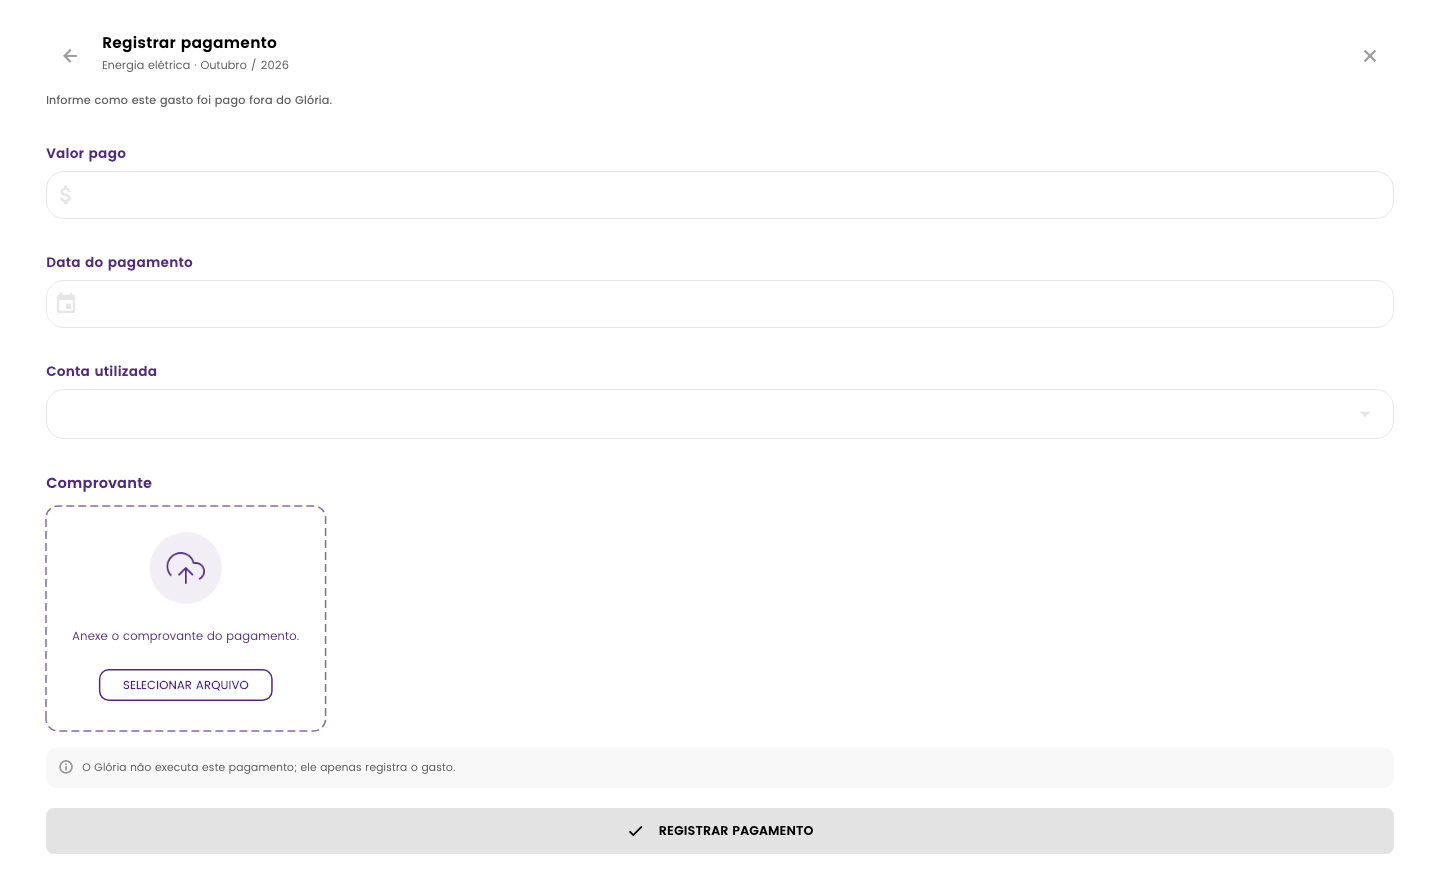
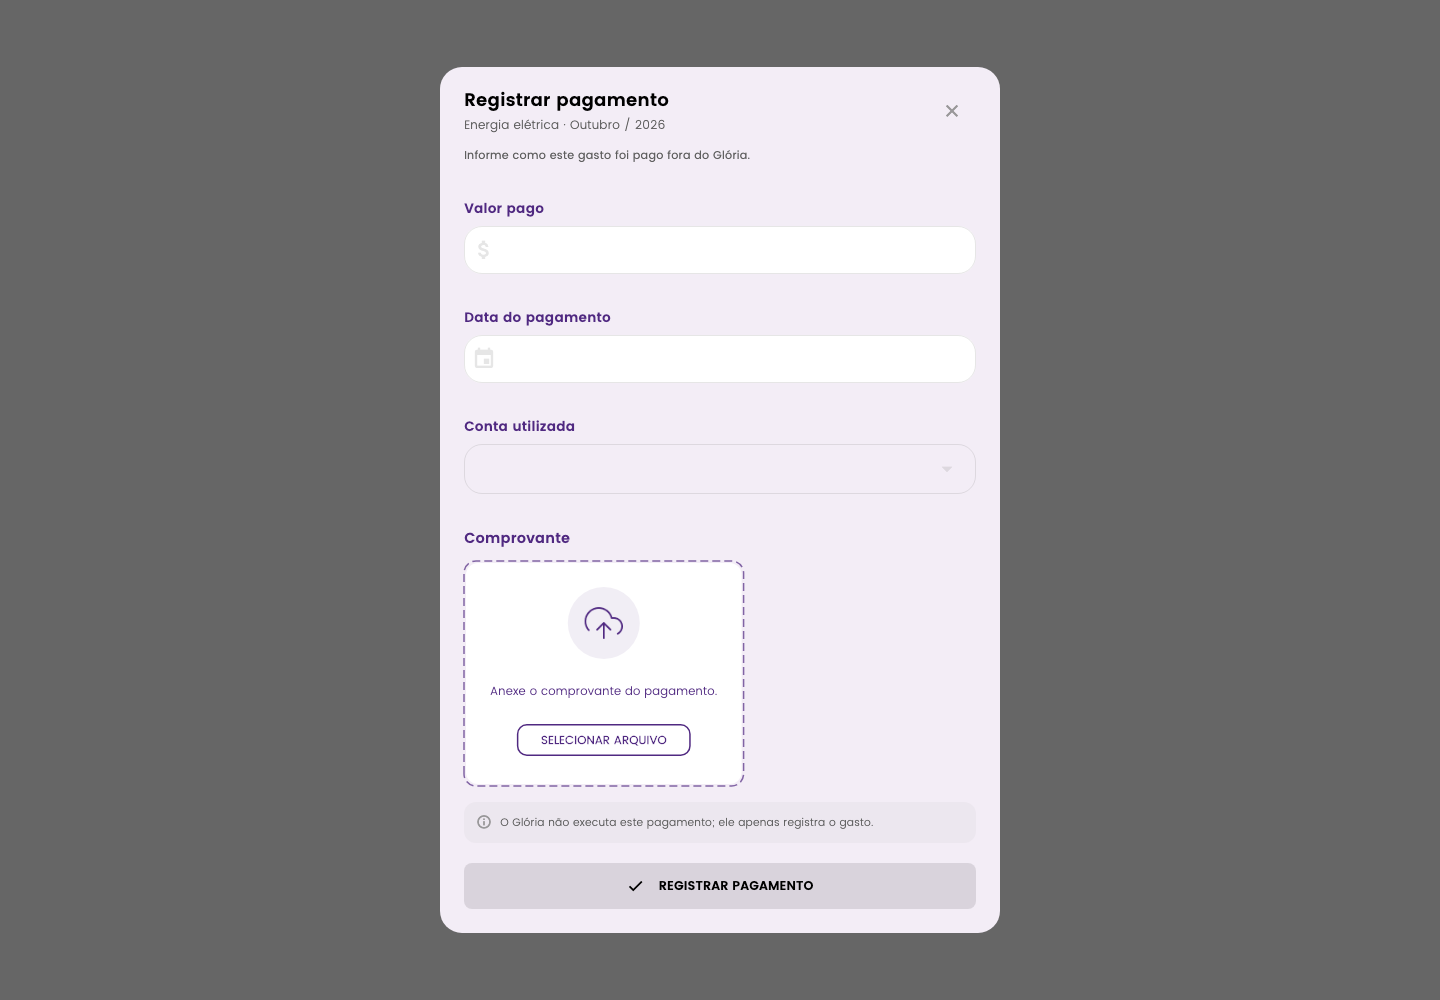
style(recurring-payments): refine execution modal surfaces

diff --git a/test/features/erp/recurring_payments/recurring_payments_execution_visual_test.dart b/test/features/erp/recurring_payments/recurring_payments_execution_visual_test.dart
@@ -703,16 +703,34 @@ Future<void> _pumpSheet(
 }) async {
   _setSurface(tester, size);
 
+  final sheet = RecurringPaymentExecutionSheet(
+    item: item,
+    hasBanking: hasBanking,
+    symbolFormatMoney: _symbol,
+    service: service,
+  );
+  final isDesktop = size.width >= 768;
+  final modal =
+      isDesktop
+          ? Dialog(
+            backgroundColor: Colors.transparent,
+            shape: RoundedRectangleBorder(
+              borderRadius: BorderRadius.circular(22),
+            ),
+            child: ConstrainedBox(
+              constraints: const BoxConstraints(maxWidth: 560),
+              child: sheet,
+            ),
+          )
+          : sheet;
+
   await tester.pumpWidget(
     _wrap(
-      child: RecurringPaymentExecutionSheet(
-        item: item,
-        hasBanking: hasBanking,
-        symbolFormatMoney: _symbol,
-        service: service,
-      ),
+      child: modal,
       monthly: _monthlyStore(),
       hasBanking: hasBanking,
+      executionModal: true,
+      desktopModal: isDesktop,
     ),
   );
   await tester.pumpAndSettle();
@@ -814,6 +832,8 @@ Widget _wrap({
   required Widget child,
   required RecurringPaymentMonthlyStore monthly,
   required bool hasBanking,
+  bool executionModal = false,
+  bool desktopModal = false,
 }) {
   // `AuthSessionStore` recarga la sesión desde persistencia al construirse, así
   // que la sesión de prueba se siembra donde él la busca.
@@ -899,15 +919,31 @@ Widget _wrap({
                 backgroundColor: Colors.white,
                 body: RepaintBoundary(
                   key: const ValueKey('recurring-payments-capture'),
-                  child: SingleChildScrollView(
-                    child: Padding(
-                      padding: const EdgeInsets.symmetric(
-                        horizontal: 24,
-                        vertical: 14,
-                      ),
-                      child: child,
-                    ),
-                  ),
+                  child:
+                      executionModal
+                          ? Stack(
+                            fit: StackFit.expand,
+                            children: [
+                              const ColoredBox(color: Colors.white),
+                              const ColoredBox(color: Color(0x99000000)),
+                              if (desktopModal)
+                                Center(child: child)
+                              else
+                                Align(
+                                  alignment: Alignment.bottomCenter,
+                                  child: child,
+                                ),
+                            ],
+                          )
+                          : SingleChildScrollView(
+                            child: Padding(
+                              padding: const EdgeInsets.symmetric(
+                                horizontal: 24,
+                                vertical: 14,
+                              ),
+                              child: child,
+                            ),
+                          ),
                 ),
               ),
             ),

diff --git a/lib/features/erp/recurring_payments/pages/execution/recurring_payment_execution_sheet.dart b/lib/features/erp/recurring_payments/pages/execution/recurring_payment_execution_sheet.dart
@@ -48,6 +48,7 @@ Future<void> openRecurringPaymentExecution(
     return showModalBottomSheet<void>(
       context: context,
       isScrollControlled: true,
+      useSafeArea: true,
       backgroundColor: Colors.transparent,
       builder:
           (_) => RecurringPaymentExecutionSheet(
@@ -62,7 +63,7 @@ Future<void> openRecurringPaymentExecution(
     context: context,
     builder:
         (_) => Dialog(
-          backgroundColor: Colors.white,
+          backgroundColor: Colors.transparent,
           shape: RoundedRectangleBorder(
             borderRadius: BorderRadius.circular(22),
           ),
@@ -137,10 +138,10 @@ class RecurringPaymentExecutionSheetState
       value: _store,
       child: Container(
         decoration: BoxDecoration(
-          color: Colors.white,
+          color: const Color(0xFFF3EDF6),
           borderRadius: BorderRadius.circular(22),
         ),
-        padding: const EdgeInsets.fromLTRB(22, 18, 22, 22),
+        padding: const EdgeInsets.fromLTRB(24, 20, 24, 24),
         child: SingleChildScrollView(
           child: Column(
             crossAxisAlignment: CrossAxisAlignment.stretch,
@@ -166,7 +167,7 @@ class RecurringPaymentExecutionSheetState
                           _title(l10n),
                           style: const TextStyle(
                             fontFamily: AppFonts.fontTitle,
-                            fontSize: 17,
+                            fontSize: 20,
                             color: Colors.black,
                           ),
                         ),
@@ -176,7 +177,7 @@ class RecurringPaymentExecutionSheetState
                           '${item.month.slashLabel}',
                           style: const TextStyle(
                             fontFamily: AppFonts.fontText,
-                            fontSize: 12.5,
+                            fontSize: 13.5,
                             color: Color(0xFF5F5F5F),
                           ),
                         ),
@@ -377,7 +378,10 @@ class RecurringPaymentExecutionSheetState
     }
   }
 
-  bool get _canGoBack => _step != RecurringPaymentExecutionStep.result;
+  bool get _canGoBack =>
+      _step != RecurringPaymentExecutionStep.result &&
+      (_step != _initialStep() ||
+          _step == RecurringPaymentExecutionStep.pixConfirmation);
 
   void _goBack() {
     if (_step == _initialStep() &&

diff --git a/lib/core/widgets/custom_button.dart b/lib/core/widgets/custom_button.dart
@@ -12,9 +12,9 @@ class CustomButton extends StatelessWidget {
   final void Function()? onPressed;
   final IconData? icon;
   final Widget? leading;
-  EdgeInsetsGeometry? padding;
+  final EdgeInsetsGeometry? padding;
 
-  CustomButton({
+  const CustomButton({
     super.key,
     required this.text,
     required this.backgroundColor,
@@ -33,10 +33,10 @@ class CustomButton extends StatelessWidget {
       onPressed: onPressed,
       child: Padding(
         padding:
-            padding ??=
-                isMobile(context)
-                    ? EdgeInsets.only(top: 18, bottom: 18)
-                    : EdgeInsets.only(top: 14, bottom: 14),
+            padding ??
+            (isMobile(context)
+                ? const EdgeInsets.only(top: 18, bottom: 18)
+                : const EdgeInsets.only(top: 14, bottom: 14)),
         child: LayoutBuilder(
           builder: (context, constraints) {
             final canFlex = constraints.maxWidth.isFinite;
@@ -76,7 +76,9 @@ class CustomButton extends StatelessWidget {
     return ElevatedButton.styleFrom(
       backgroundColor: backgroundColor,
       shape: RoundedRectangleBorder(borderRadius: BorderRadius.circular(8.0)),
-      elevation: 4.0,
+      side: BorderSide.none,
+      elevation: 1.0,
+      shadowColor: Colors.black26,
     );
   }
 

diff --git a/lib/core/widgets/form_controls.dart b/lib/core/widgets/form_controls.dart
@@ -136,6 +136,8 @@ InputDecoration _inputDecoration(
 ) {
   return InputDecoration(
     hintText: hintText,
+    filled: true,
+    fillColor: Colors.white,
     contentPadding: const EdgeInsets.all(16),
     errorBorder: const OutlineInputBorder(
       borderSide: BorderSide(color: Colors.red),
